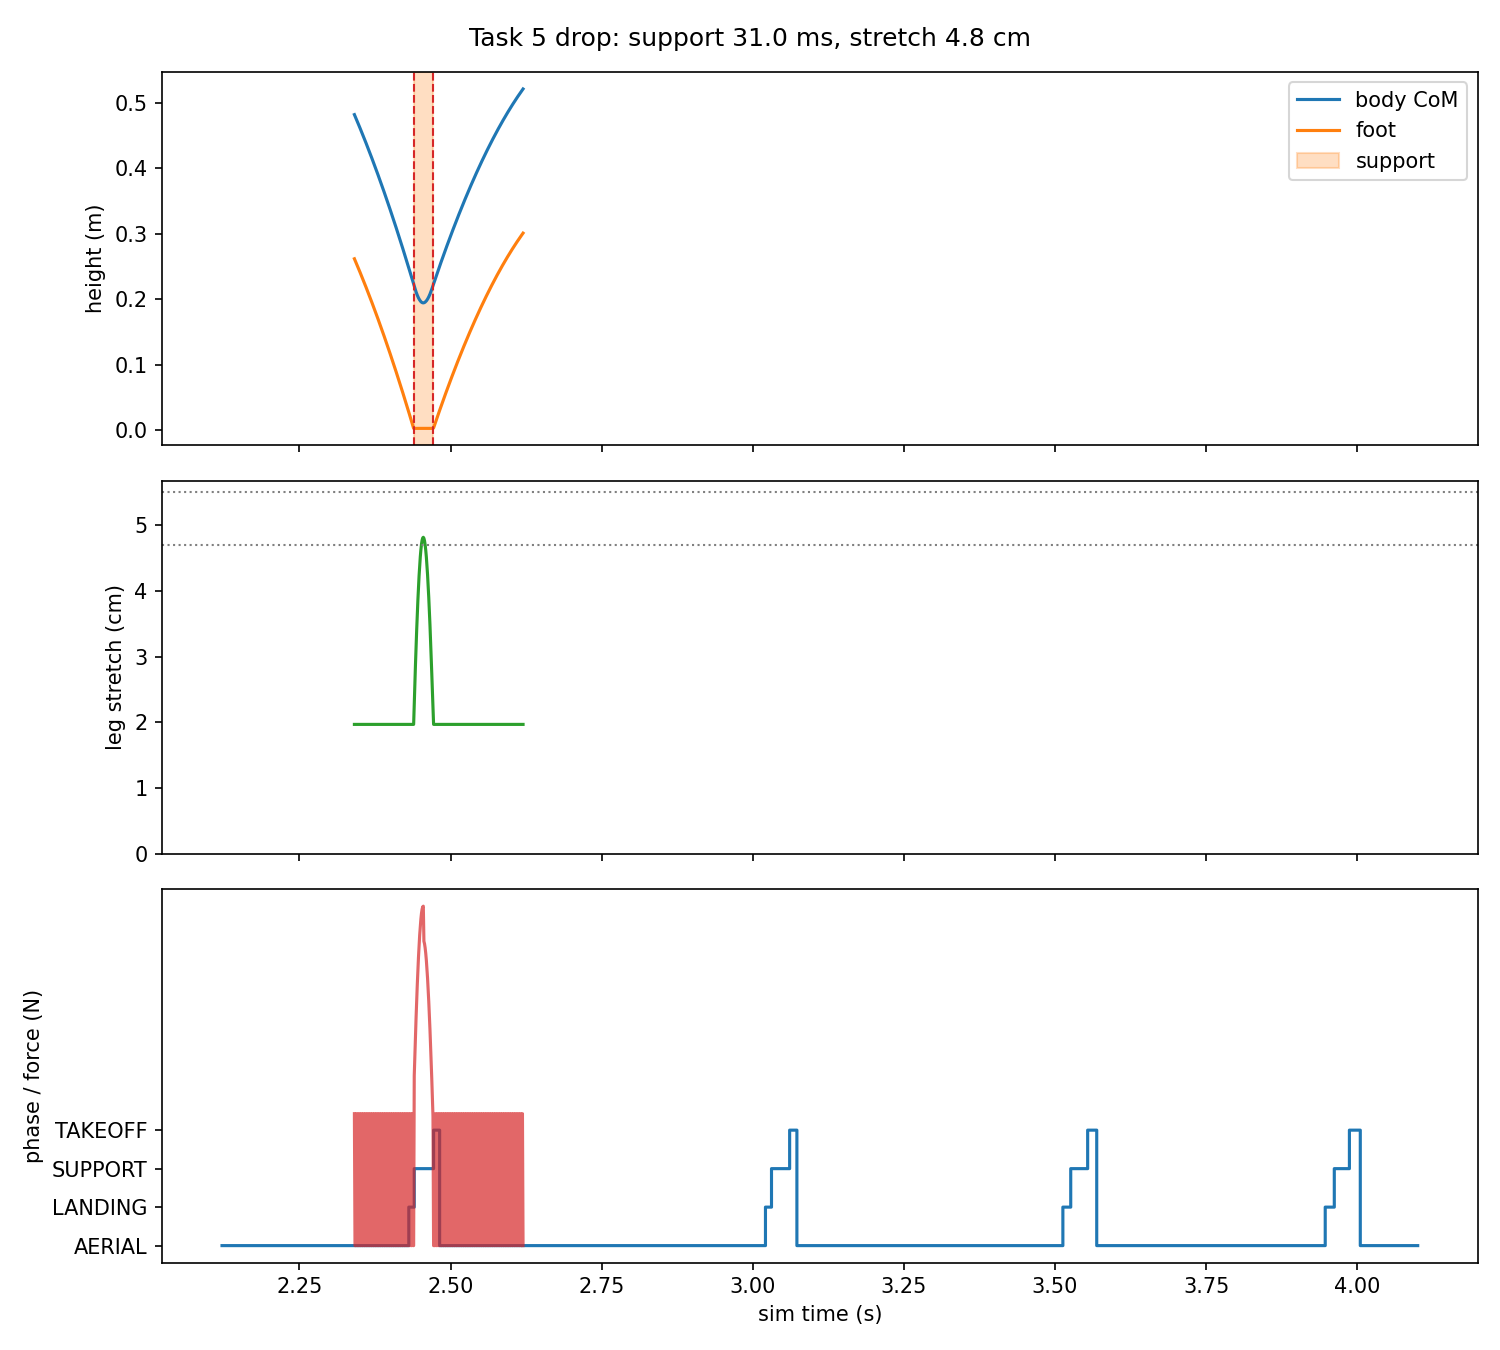
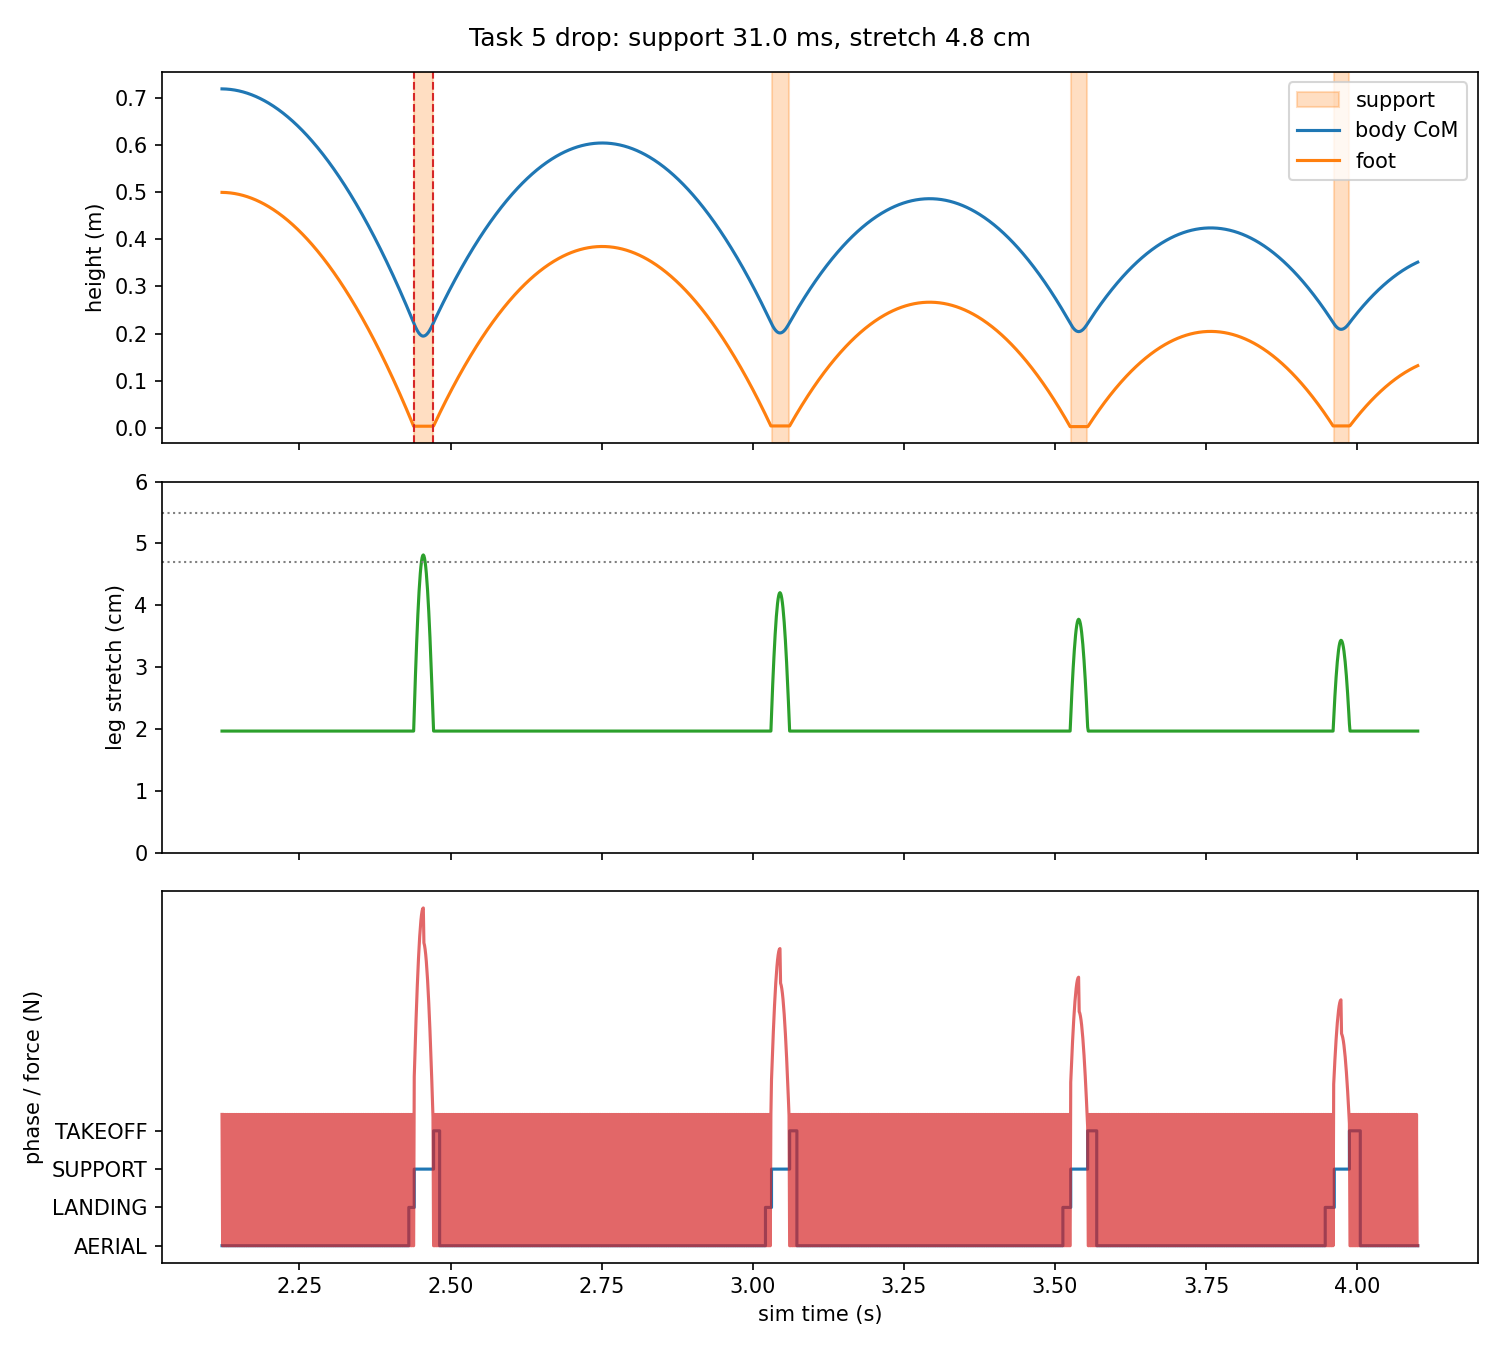
fix: 任务五落地速度改用触地关节速度并更新验证图

diff --git a/scripts/task5_analyze_drop.py b/scripts/task5_analyze_drop.py
@@ -59,6 +59,21 @@ def first_support_segment(support):
     return idx[: int(split[0]) + 1]
 
 
+def support_segments(support, t, max_gap_samples=5):
+    """Return (start_t, end_t) of every support segment in the record."""
+    idx = np.flatnonzero(support)
+    if len(idx) == 0:
+        return []
+    segments = []
+    start = idx[0]
+    for i in range(1, len(idx)):
+        if idx[i] - idx[i - 1] > max_gap_samples:
+            segments.append((float(t[start]), float(t[idx[i - 1]])))
+            start = idx[i]
+    segments.append((float(t[start]), float(t[idx[-1]])))
+    return segments
+
+
 def main():
     parser = argparse.ArgumentParser(description=__doc__)
     parser.add_argument('--csv', required=True, help='leg state CSV')
@@ -145,29 +160,33 @@ def main():
         writer.writerows(summary_rows)
     print('summary ->', summary_path)
 
-    # Plot.
+    # Plot the full record so every bounce is visible; the first support
+    # segment (used for the paper comparison) is marked explicitly.
     fig, axes = plt.subplots(3, 1, figsize=(10, 9), sharex=True)
-    window = (t >= t_ld - 0.10) & (t <= t_to + 0.15)
-    tw = t[window]
-    axes[0].plot(tw, com[window], label='body CoM')
-    axes[0].plot(tw, foot_z[window], label='foot')
-    axes[0].axvspan(t_ld, t_to, color='tab:orange', alpha=0.25, label='support')
+    segments = support_segments(support, t)
+    for seg_start, seg_end in segments:
+        axes[0].axvspan(
+            seg_start, seg_end, color='tab:orange', alpha=0.25,
+            label='support' if seg_start == segments[0][0] else None)
+    axes[0].plot(t, com, label='body CoM')
+    axes[0].plot(t, foot_z, label='foot')
     axes[0].axvline(t_ld, color='tab:red', ls='--', lw=1)
     axes[0].axvline(t_to, color='tab:red', ls='--', lw=1)
     axes[0].set_ylabel('height (m)')
     axes[0].legend(loc='upper right')
 
-    axes[1].plot(tw, (L0 + LP - (L0 + q[window])) * 100.0, color='tab:green')
+    stretch = (L0 + LP - (L0 + q)) * 100.0
+    axes[1].plot(t, stretch, color='tab:green')
     axes[1].axhline(4.7, color='gray', ls=':', lw=1)
     axes[1].axhline(5.5, color='gray', ls=':', lw=1)
     axes[1].set_ylabel('leg stretch (cm)')
-    axes[1].set_ylim(bottom=0)
+    axes[1].set_ylim(0.0, max(6.0, float(np.max(stretch)) * 1.1))
 
     phase_num = np.asarray([
         ['AERIAL', 'LANDING', 'SUPPORT', 'TAKEOFF'].index(p)
         for p in phase])
     axes[2].plot(t, phase_num, drawstyle='steps-post', color='tab:blue')
-    axes[2].plot(tw, force[window], color='tab:red', alpha=0.7)
+    axes[2].plot(t, force, color='tab:red', alpha=0.7)
     axes[2].set_yticks([0, 1, 2, 3])
     axes[2].set_yticklabels(['AERIAL', 'LANDING', 'SUPPORT', 'TAKEOFF'])
     axes[2].set_ylabel('phase / force (N)')
